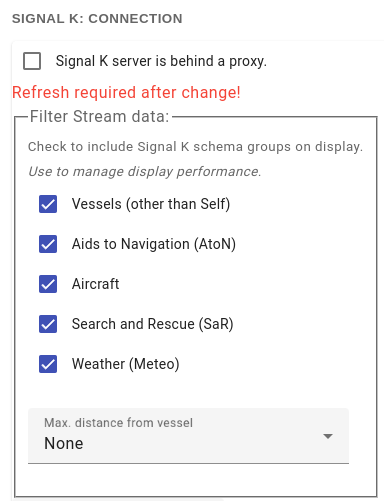
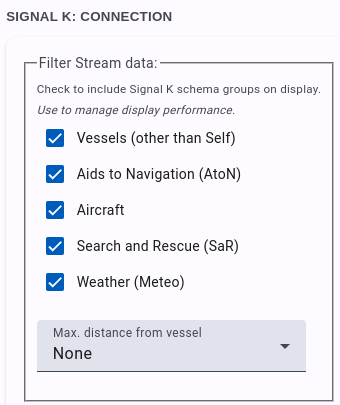
chore: docs

Changed region(s): [[0.0294, 0.0889, 1.0, 1.0], [0.0, 0.0296, 0.5294, 0.0593], [0.8529, 0.8593, 0.8824, 0.8889]]

diff --git a/src/assets/help/index.html b/src/assets/help/index.html
@@ -1314,7 +1314,7 @@
               Click and select (or drop) the file containing the resource data.
             </li>
             <li>
-              Click <b>Load</b> to upload the fiel contents to the server.
+              Click <b>Load</b> to upload the file contents to the server.
             </li>
             <b
               >Important:
@@ -1802,6 +1802,11 @@
               <i>Instrument Panel</i>.
             </li>
             <li>
+              <b>Do not Play Sounds</b>: Check this box if you do not want any
+              sounds played.
+              <i>(Overrides ALARM_METHOD in notification message.)</i>
+            </li>
+            <li>
               <b>Show DEPTH Alarm Messages</b>: Check this box if you want
               received DEPTH notifications from the Signal K server to be
               displayed as an alarm message.
@@ -1849,6 +1854,7 @@
             </li>
           </ul>
           <b>MAP:</b><br />
+          <img src="./img/settings_map.png" style="width: 300px" alt="" /><br />
           <ul>
             <li>
               <b>Feature label zoom level</b>: Select the zoom level at which
@@ -2079,6 +2085,11 @@
               <i>'anchored'</i>. Note: Display is updated when next vessel
               update is received.
             </li>
+            <li>
+              <b>COG Line</b>: Select to show / hide COG vector for AIS
+              vessels.<br />
+              <i>Note: COG line length is calculated for 10 mins duration.</i>
+            </li>
           </ul>
           <hr />
           <b>RESOURCES: NOTES</b><br />
@@ -2260,10 +2271,10 @@
             alt=""
           /><br />
 
-          <b>Signal K server is behind a proxy:</b><br />
+          <!--<b>Signal K server is behind a proxy:</b><br />
           Check this option when your browser is connecting to a Signal K server
           that is behind a proxy server. This enables Freeboard-SK to correctly
-          detect and connect to the endpoints exposed by the Signal K Server.<br />&nbsp;<br />
+          detect and connect to the endpoints exposed by the Signal K Server.<br />&nbsp;<br />-->
 
           <b>Filter Stream Data:</b>
           Use the options in this section to select which Signal K

diff --git a/CHANGELOG.md b/CHANGELOG.md
@@ -1,5 +1,12 @@
 # CHANGELOG: Freeboard
 
+### v2.11.2
+
+- **Updated**: Proxy mode operation is now the default and configuration option removed. (#159)
+- **Added**: Setting to mute all sounds regardless of notification ALARM_METHOD value.(#178)
+- **Updated**: Show total length of Route when editing. (#171)
+- **Added**: Toggle charts on/of by clicking chart boundaries on map.
+
 ### v2.11.1
 
 - **Fixed**: Display of AIS COG vector does not honor setting value. (#180)
